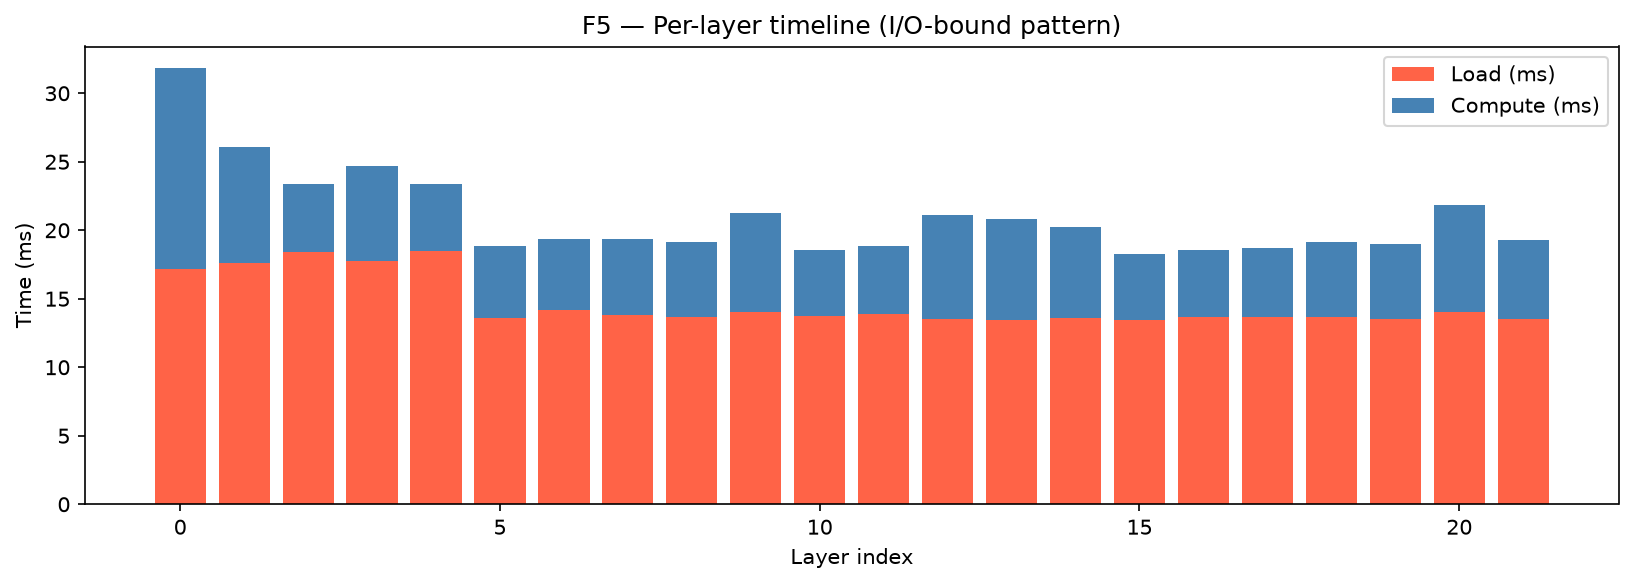
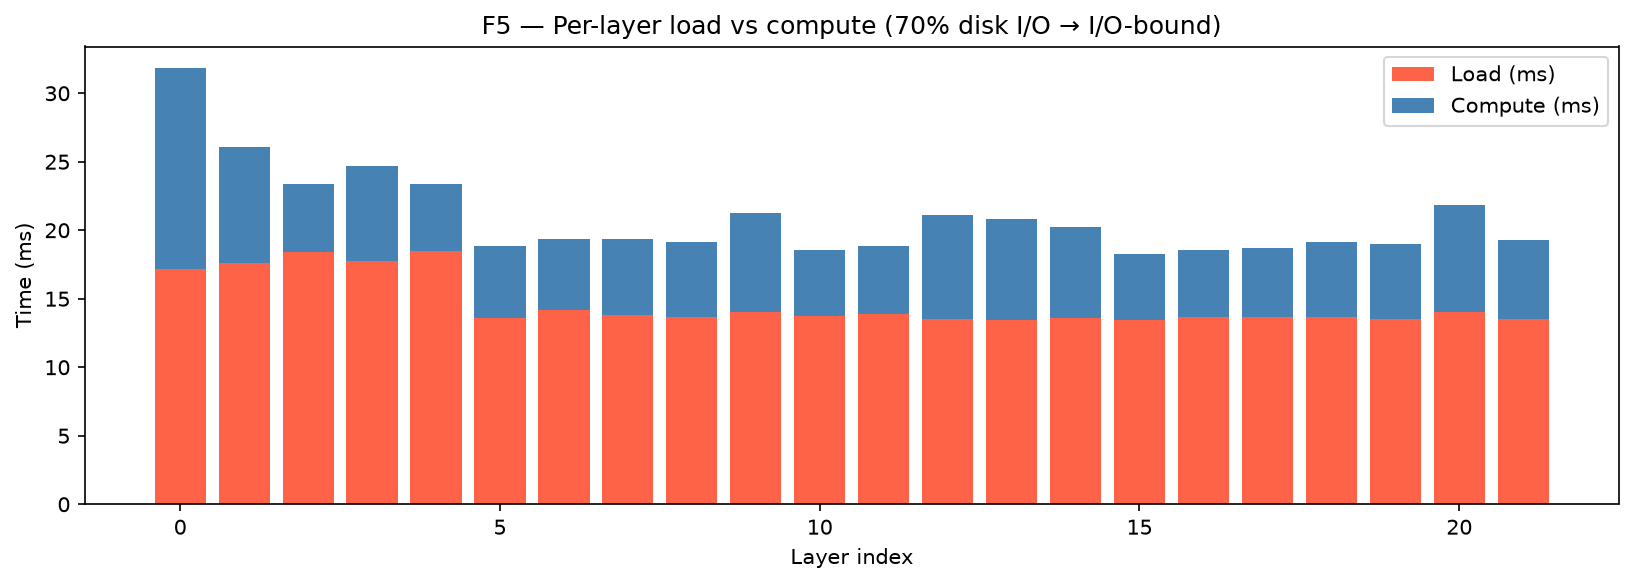
polish(f5): show measured I/O% in plot title, document JIT warmup, refresh TODO
- viz/plots.py: F5 on-image title now reports the measured disk-I/O share
  computed from the data ("70% disk I/O -> I/O-bound") instead of a generic label.
- services/_report_figs.py: §7 blurb notes the first few layers carry one-time
  MLX kernel JIT-compilation that inflates their compute bars, so the true
  steady-state I/O share is even higher than shown (honest, conservative).
- docs/TODO.md: mark Phase 9.2/9.8/9.9 done — giant-proof OOM + honest LLaMA-1
  vs LLaMA-2 incompatibility were resolved/committed; v1.10 shipped (now v1.11).

Quality gate: ruff clean, 183 tests pass, 87.98% coverage, files <= 150 lines.
(Local fix, not committed: recreated .venv to repair stale console-script
shebangs left by an earlier project move, so `uv run pytest` works directly.)

Changed region(s): [[0.2811, 0.0308, 0.7495, 0.0616]]

diff --git a/src/airllm_local_lab/sdk/viz/plots.py b/src/airllm_local_lab/sdk/viz/plots.py
@@ -101,13 +101,15 @@ def f5_layer_timeline(layer_dicts: list[dict]) -> Path:
     layers = [d["layer"] for d in layer_dicts]
     load_ms = [d["load_ms"] for d in layer_dicts]
     compute_ms = [d["compute_ms"] for d in layer_dicts]
+    wall = sum(load_ms) + sum(compute_ms)
+    io_pct = round(100 * sum(load_ms) / wall) if wall else 0
 
     fig, ax = plt.subplots(figsize=(max(10, len(layers) // 2), 4))
     ax.bar(layers, load_ms, label="Load (ms)", color="tomato")
     ax.bar(layers, compute_ms, bottom=load_ms, label="Compute (ms)", color="steelblue")
     ax.set_xlabel("Layer index")
     ax.set_ylabel("Time (ms)")
-    ax.set_title("F5 — Per-layer timeline (I/O-bound pattern)")
+    ax.set_title(f"F5 — Per-layer load vs compute ({io_pct}% disk I/O → I/O-bound)")
     ax.legend()
     fig.tight_layout()
     return _save(fig, "F5_layer_timeline.png")

diff --git a/src/airllm_local_lab/services/_report_figs.py b/src/airllm_local_lab/services/_report_figs.py
@@ -35,6 +35,8 @@ def render_f5(results_dir: Path) -> tuple[str, str]:
         f"layer-streaming run on the Apple M3 Pro — all {len(dicts)} TinyLlama-1.1B "
         f"layers, mean **{mean_load:.1f} ms disk-load** vs **{mean_compute:.1f} ms forward "
         f"compute** per layer. Disk I/O is **{pct}%** of per-layer wall-time, confirming the "
-        "run is I/O-bound, not compute-bound (ADR-008: figures from measured data only).\n\n"
+        "run is I/O-bound, not compute-bound. The first few layers carry one-time MLX kernel "
+        "JIT-compilation that slightly inflates their compute bars, so the true steady-state "
+        "I/O share is even higher than shown (ADR-008: figures from measured data only).\n\n"
     )
     return caption, blurb

diff --git a/docs/TODO.md b/docs/TODO.md
@@ -141,14 +141,14 @@
 | # | Task | Status | Outcome |
 |---|---|---|---|
 | 9.1 | Ollama GGUF precision sweep — `services/quant_sweep_ollama.py` (`sweep-ollama`) | ☑ | Q8_0=92 tok/s, Q4_K_M=133 tok/s, Q2_K=145 tok/s; `results/quant_sweep_ollama.json/csv` |
-| 9.2 | Giant model AirLLM proof — `services/giant_proof.py` (`giant-proof`) | ⏳ | Download of `huggyllama/llama-13b` (26 GB) in progress; OOM + streaming to `results/giant_proof.json` |
+| 9.2 | Giant model AirLLM proof — `services/giant_proof.py` (`giant-proof`) | ☑ | Direct-load OOM confirmed (26 GB FP16 > 19.3 GB RAM, 21.1 GB gap, 180 s timeout); AirLLM streaming peak RAM 274 MB ≪ 26 GB → `results/giant_proof.json` |
 | 9.3 | Empirical TPOT/ITL sweep — `services/tpot_sweep.py` (`tpot-sweep`) | ☑ | AirLLM ITL = 1416 ms/token (linear fit, n=1,2,4,8); `results/tpot_sweep.json` |
 | 9.4 | Unit tests for all 3 new services (17 tests) | ☑ | 170 total tests, 87.58% coverage |
 | 9.5 | Report builder + KPI scorecard + section_models updated | ☑ | Real measured values; TPOT=0 placeholder removed |
 | 9.6 | Docs updated (PLAN ADR-002/004 revised, ADR-009 added; TODO Phase 9; CHANGELOG v1.10) | ☑ | All honesty gaps documented |
 | 9.7 | Quality gate: ruff clean, pytest ≥85%, all files ≤150 lines | ☑ | 0 violations; 87.58%; max 150 lines |
-| 9.8 | Run `uv run giant-proof` and update `results/giant_proof.json` | ⏳ | Awaiting 26 GB download |
-| 9.9 | Commit and push v1.10 to main | ⏳ | After giant-proof completes |
+| 9.8 | Run `uv run giant-proof` and update `results/giant_proof.json` | ☑ | Honest negative result: `huggyllama/llama-13b` is LLaMA-**1**; `AirLLMLlamaMlx` expects LLaMA-2 layout (`rotary_emb` absent) — documented in commit 2cc8cbf |
+| 9.9 | Commit and push v1.10 to main | ☑ | v1.10 shipped; v1.11 (F5 timeline capture) now on main |
 
 ---
 

diff --git a/README.md b/README.md
@@ -243,7 +243,7 @@ Peak RAM:   1066 MB
 
 **Cold vs warm:** rep 1 (cold) = 27.099 s · reps 2-3 (warm) avg = 28.165 s · warm is -3.9% faster. The OS page cache retains shard pages in kernel memory — quantified in Extension E3.
 
-**Measured per-layer timeline (F5):** captured live during the AirLLM MLX layer-streaming run on the Apple M3 Pro — all 22 TinyLlama-1.1B layers, mean **14.7 ms disk-load** vs **6.3 ms forward compute** per layer. Disk I/O is **70%** of per-layer wall-time, confirming the run is I/O-bound, not compute-bound (ADR-008: figures from measured data only).
+**Measured per-layer timeline (F5):** captured live during the AirLLM MLX layer-streaming run on the Apple M3 Pro — all 22 TinyLlama-1.1B layers, mean **14.7 ms disk-load** vs **6.3 ms forward compute** per layer. Disk I/O is **70%** of per-layer wall-time, confirming the run is I/O-bound, not compute-bound. The first few layers carry one-time MLX kernel JIT-compilation that slightly inflates their compute bars, so the true steady-state I/O share is even higher than shown (ADR-008: figures from measured data only).
 
 ![F5 — Measured per-layer load vs compute timeline (TinyLlama-1.1B · AirLLM MLX streaming · Apple M3 Pro · 22 layers · load = 70% of wall-time → disk-I/O-bound)](assets/F5_layer_timeline.png)
 *F5 — Measured per-layer load vs compute timeline (TinyLlama-1.1B · AirLLM MLX streaming · Apple M3 Pro · 22 layers · load = 70% of wall-time → disk-I/O-bound)*